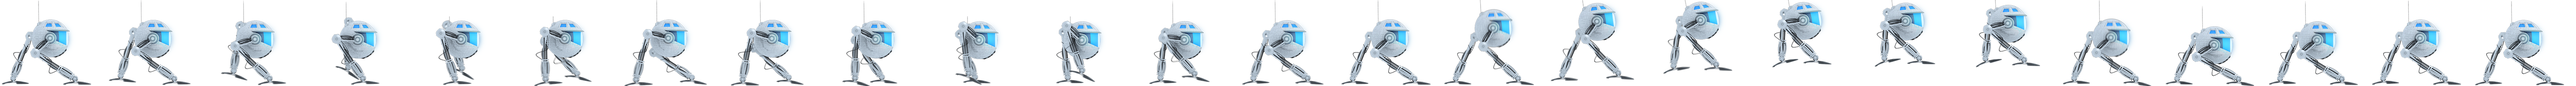
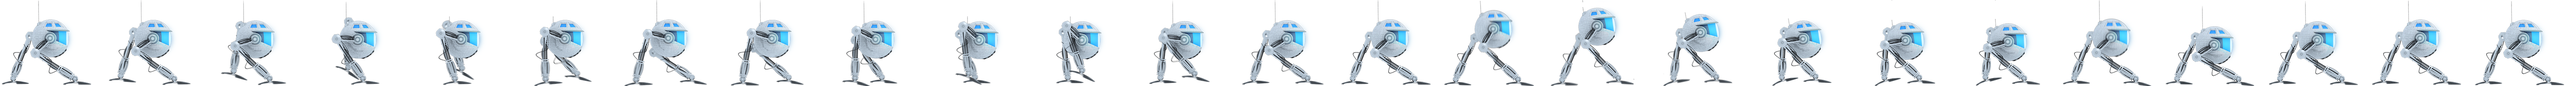
Implementación de animación de salto

Changed region(s): [[0.5624, 0.0308, 0.8124, 1.0]]

diff --git a/core/src/mx/itesm/jrcti/botscape/Robot.java b/core/src/mx/itesm/jrcti/botscape/Robot.java
@@ -16,8 +16,6 @@ import com.badlogic.gdx.physics.box2d.PolygonShape;
 import com.badlogic.gdx.physics.box2d.World;
 import com.badlogic.gdx.physics.box2d.WorldManifold;
 
-import java.util.ArrayList;
-
 
 /**
  * Created by rayoc on 08/03/2017.
@@ -27,8 +25,11 @@ public class Robot extends Objeto {
     private final float VELOCIDAD_X = 4;      // Velocidad horizontal
 
     private Animation<TextureRegion> spriteAnimadoMov;         // Animación caminando
-    private Animation<TextureRegion> spriteAnimadoSalto;         // Animación saltando
-    private float timerAnimacion;                           // Tiempo para cambiar frames de la animación
+    private Animation<TextureRegion> spriteAnimadoSaltoSubiendo;         // Animación saltando subiendo
+    private Animation<TextureRegion> spriteAnimadoSaltoBajando;         // Animación saltando bajando
+    private float timerAnimacionMov;                           // Tiempo para cambiar frames de la animación
+    private float timerAnimacionSub;
+    private float timerAnimacionBaj;
 
     private EstadoMovimiento estadoMovimiento = EstadoMovimiento.QUIETO;
     private EstadoMovimiento ultimoEstadoMov = EstadoMovimiento.QUIETO;
@@ -46,6 +47,8 @@ public class Robot extends Objeto {
     private int tiempoInv = 90;
     private final int TIEMPO_RUN_INICIAL =600;
     private int tiempoRun=600;
+
+    private boolean debeAterrizar;
 
 
 
@@ -67,18 +70,23 @@ public class Robot extends Objeto {
                 texturaPersonaje[0][8], texturaPersonaje[0][9], texturaPersonaje[0][10],
                 texturaPersonaje[0][11], texturaPersonaje[0][12]);
         //Crea la animación de salto
-        spriteAnimadoSalto = new Animation(0.25f, texturaPersonaje[0][13],
+        spriteAnimadoSaltoSubiendo = new Animation(0.10f, texturaPersonaje[0][13],
                 texturaPersonaje[0][14], texturaPersonaje[0][15], texturaPersonaje[0][16],
-                texturaPersonaje[0][17], texturaPersonaje[0][18], texturaPersonaje[0][19],
-                texturaPersonaje[0][20], texturaPersonaje[0][21], texturaPersonaje[0][22],
-                texturaPersonaje[0][23], texturaPersonaje[0][24]);
+                texturaPersonaje[0][17], texturaPersonaje[0][18], texturaPersonaje[0][19]);
+        spriteAnimadoSaltoBajando = new Animation(0.12f, texturaPersonaje[0][21], texturaPersonaje[0][22], texturaPersonaje[0][23],
+                texturaPersonaje[0][24]);
         // Animación infinita
         spriteAnimadoMov.setPlayMode(Animation.PlayMode.LOOP);
+        spriteAnimadoSaltoSubiendo.setPlayMode(Animation.PlayMode.NORMAL);
+        spriteAnimadoSaltoBajando.setPlayMode(Animation.PlayMode.LOOP);
         // Inicia el timer que contará tiempo para saber qué frame se dibuja
-        timerAnimacion = 0;
+        timerAnimacionMov = 0f;
+        timerAnimacionSub = 0f;
+        timerAnimacionBaj = 0f;
         // Crea el sprite con el personaje quieto (idle)
         sprite = new Sprite(texturaPersonaje[0][0]);    // QUIETO
         sprite.setPosition(x, y);// Posición inicial
+
 
         bodydef = new BodyDef();
         bodydef.type = type;
@@ -99,39 +107,155 @@ public class Robot extends Objeto {
 
     // Dibuja el personaje
     public void dibujar(SpriteBatch batch) {
+        TextureRegion region;
+        boolean aterrizaje;
+
         // Dibuja el personaje dependiendo del estadoMovimiento
         sprite.setPosition((body.getPosition().x * PantallaNivel.getPtM()) - sprite.getWidth() / 2,
-                (body.getPosition().y * PantallaNivel.getPtM()) - 4*sprite.getHeight()/ 10);
-        switch (estadoMovimiento) {
-            case MOV_DERECHA:
-            case MOV_IZQUIERDA:
-                timerAnimacion += Gdx.graphics.getDeltaTime();
-                // Frame que se dibujará
-                TextureRegion region = spriteAnimadoMov.getKeyFrame(timerAnimacion);
-                if (estadoMovimiento == EstadoMovimiento.MOV_IZQUIERDA) {
-                    if (!region.isFlipX()) {
-                        region.flip(true, false);
-                    }
-                } else {
-                    if (region.isFlipX()) {
-                        region.flip(true, false);
-                    }
-                }
-                batch.draw(region, sprite.getX(), sprite.getY());
-                break;
-            case QUIETO:
-                if(ultimoEstadoMov==EstadoMovimiento.MOV_DERECHA){
-                    if(sprite.isFlipX())
-                        sprite.flip(true,false);
-                } else if(ultimoEstadoMov==EstadoMovimiento.MOV_IZQUIERDA){
-                    if(!sprite.isFlipX()){
-                        sprite.flip(true,false);
-                    }
-                }
+                (body.getPosition().y * PantallaNivel.getPtM()) - 4 * sprite.getHeight() / 10);
+        if ((body.getLinearVelocity().y <= 0.001f && body.getLinearVelocity().y >= -0.001f) || (estadoSalto == EstadoSalto.EN_PISO)){
+                switch (estadoMovimiento) {
+                    case MOV_DERECHA:
+                    case MOV_IZQUIERDA:
+                        timerAnimacionMov += Gdx.graphics.getDeltaTime();
+                        // Frame que se dibujará
+                        region = spriteAnimadoMov.getKeyFrame(timerAnimacionMov);
+                        if (estadoMovimiento == EstadoMovimiento.MOV_IZQUIERDA) {
+                            if (!region.isFlipX()) {
+                                region.flip(true, false);
+                            }
+                        } else {
+                            if (region.isFlipX()) {
+                                region.flip(true, false);
+                            }
+                        }
+                        batch.draw(region, sprite.getX(), sprite.getY());
+                        break;
+                    case QUIETO:
+                        if (ultimoEstadoMov == EstadoMovimiento.MOV_DERECHA) {
+                            if (sprite.isFlipX())
+                                sprite.flip(true, false);
+                        } else if (ultimoEstadoMov == EstadoMovimiento.MOV_IZQUIERDA) {
+                            if (!sprite.isFlipX()) {
+                                sprite.flip(true, false);
+                            }
+                        }
 
-                sprite.draw(batch); // Dibuja el sprite estático
-                break;
-        }
+                        sprite.draw(batch); // Dibuja el sprite estático
+                        break;
+                }
+                timerAnimacionSub = 0;
+                timerAnimacionBaj = 0;
+
+        } else {
+            //if(body.getLinearVelocity().y>0) {
+                if (!spriteAnimadoSaltoSubiendo.isAnimationFinished(timerAnimacionSub)) {
+                    timerAnimacionSub += Gdx.graphics.getDeltaTime();
+                } else {
+                    timerAnimacionSub -= 1 / 60f;
+                }
+                switch (estadoMovimiento) {
+                    case MOV_DERECHA:
+                    case MOV_IZQUIERDA:
+                        // Frame que se dibujará
+                        region = spriteAnimadoSaltoSubiendo.getKeyFrame(timerAnimacionSub);
+                        if (estadoMovimiento == EstadoMovimiento.MOV_IZQUIERDA) {
+                            if (!region.isFlipX()) {
+                                region.flip(true, false);
+                            }
+                        } else {
+                            if (region.isFlipX()) {
+                                region.flip(true, false);
+                            }
+                        }
+                        batch.draw(region, sprite.getX(), sprite.getY());
+                        break;
+                    case QUIETO:
+                        region = spriteAnimadoSaltoSubiendo.getKeyFrame(timerAnimacionSub);
+                        if (ultimoEstadoMov == EstadoMovimiento.MOV_DERECHA) {
+                            if (region.isFlipX())
+                                region.flip(true, false);
+                        } else if (ultimoEstadoMov == EstadoMovimiento.MOV_IZQUIERDA) {
+                            if (!region.isFlipX()) {
+                                region.flip(true, false);
+                            }
+                        }
+
+                        batch.draw(region, sprite.getX(), sprite.getY());
+                        break;
+                }
+            } /*else{
+                if (!spriteAnimadoSaltoBajando.isAnimationFinished(timerAnimacionBaj)) {
+                    timerAnimacionBaj += Gdx.graphics.getDeltaTime();
+                }
+                    switch (estadoMovimiento) {
+                        case MOV_DERECHA:
+                        case MOV_IZQUIERDA:
+                            // Frame que se dibujará
+                            region = spriteAnimadoSaltoBajando.getKeyFrame(timerAnimacionBaj);
+                            if (estadoMovimiento == EstadoMovimiento.MOV_IZQUIERDA) {
+                                if (!region.isFlipX()) {
+                                    region.flip(true, false);
+                                }
+                            } else {
+                                if (region.isFlipX()) {
+                                    region.flip(true, false);
+                                }
+                            }
+                            batch.draw(region, sprite.getX(), sprite.getY());
+                            break;
+                        case QUIETO:
+                            region = spriteAnimadoSaltoBajando.getKeyFrame(timerAnimacionBaj);
+                            if (ultimoEstadoMov == EstadoMovimiento.MOV_DERECHA) {
+                                if (region.isFlipX())
+                                    region.flip(true, false);
+                            } else if (ultimoEstadoMov == EstadoMovimiento.MOV_IZQUIERDA) {
+                                if (!region.isFlipX()) {
+                                    region.flip(true, false);
+                                }
+                            }
+
+                            batch.draw(region, sprite.getX(), sprite.getY());
+                            break;
+                    }
+
+                }*/
+
+        //}
+
+        /*if (!spriteAnimadoSaltoBajando.isAnimationFinished(timerAnimacionBaj)) {
+            timerAnimacionBaj += Gdx.graphics.getDeltaTime();
+            switch (estadoMovimiento) {
+                case MOV_DERECHA:
+                case MOV_IZQUIERDA:
+                    // Frame que se dibujará
+                    region = spriteAnimadoSaltoBajando.getKeyFrame(timerAnimacionBaj);
+                    if (estadoMovimiento == EstadoMovimiento.MOV_IZQUIERDA) {
+                        if (!region.isFlipX()) {
+                            region.flip(true, false);
+                        }
+                    } else {
+                        if (region.isFlipX()) {
+                            region.flip(true, false);
+                        }
+                    }
+                    batch.draw(region, sprite.getX(), sprite.getY());
+                    break;
+                case QUIETO:
+                    region = spriteAnimadoSaltoBajando.getKeyFrame(timerAnimacionBaj);
+                    if (ultimoEstadoMov == EstadoMovimiento.MOV_DERECHA) {
+                        if (region.isFlipX())
+                            region.flip(true, false);
+                    } else if (ultimoEstadoMov == EstadoMovimiento.MOV_IZQUIERDA) {
+                        if (!region.isFlipX()) {
+                            region.flip(true, false);
+                        }
+                    }
+
+                    batch.draw(region, sprite.getX(), sprite.getY());
+                    break;
+            }
+        }*/
     }
 
     // Actualiza el sprite, de acuerdo al estadoMovimiento y estadoSalto
@@ -249,6 +373,8 @@ public class Robot extends Objeto {
         }
     }
 
+
+
     private boolean checarMovDer(TiledMap mapa){
         TiledMapTileLayer capa = (TiledMapTileLayer) mapa.getLayers().get(1);
         if(capa.isVisible()) {
@@ -325,7 +451,6 @@ public class Robot extends Objeto {
 
         }
         setEstadoMovimiento(EstadoMovimiento.QUIETO);
-        //estadoMovimiento = EstadoMovimiento.QUIETO;
     }
 
     //Mejorar con or de celda izquierda, centro o derecha
@@ -378,6 +503,11 @@ public class Robot extends Objeto {
         this.estadoMovimiento = estadoMovimiento;
     }
     public void setEstadoSalto(EstadoSalto estadoSalto) {
+        if(estadoSalto == EstadoSalto.BAJANDO)
+            debeAterrizar = true;
+        else {
+            debeAterrizar = false;
+        }
         this.estadoSalto = estadoSalto;
     }
 
@@ -435,6 +565,10 @@ public class Robot extends Objeto {
         body.createFixture(fix);
         //this.sprite=new Sprite(texturaPersonaje[0][0]);
 
+    }
+
+    public void debeAterrizar(boolean debeAterrizar) {
+        this.debeAterrizar = debeAterrizar;
     }
 
     public enum EstadoMovimiento {

diff --git a/core/src/mx/itesm/jrcti/botscape/NivelTutorial.java b/core/src/mx/itesm/jrcti/botscape/NivelTutorial.java
@@ -27,8 +27,8 @@ import java.util.ArrayList;
 public class NivelTutorial extends PantallaNivel {
 
     //Debuggers, handle with care
-    /*Box2DDebugRenderer debugRenderer;
-    Matrix4 debugMatrix;*/
+    Box2DDebugRenderer debugRenderer;
+    Matrix4 debugMatrix;
 
 
     private static final int ANCHO_MAPA=3840;
@@ -111,7 +111,7 @@ public class NivelTutorial extends PantallaNivel {
         createCollisionListener();
 
         //Debugger
-        //debugRenderer = new Box2DDebugRenderer();
+        debugRenderer = new Box2DDebugRenderer();
 
         /*iman = new Iman(texturaIman, 3, 3, 300, 200,
                 Plataforma.EstadoMovimiento.MOV_DERECHA, getWorld());*/
@@ -158,13 +158,13 @@ public class NivelTutorial extends PantallaNivel {
             getMapRenderer().render();
 
 
-            /*debugMatrix=getBatch().getProjectionMatrix().cpy().scale(PantallaNivel.getPtM(),PantallaNivel.getPtM(),0);
-            debugRenderer.render(getWorld(),debugMatrix);*/
+            debugMatrix=getBatch().getProjectionMatrix().cpy().scale(PantallaNivel.getPtM(),PantallaNivel.getPtM(),0);
+            debugRenderer.render(getWorld(),debugMatrix);
 
 
             //Debugging
-            /*debugMatrix = getBatch().getProjectionMatrix().cpy().scale(PantallaNivel.getPtM(),
-                    PantallaNivel.getPtM(), 0);*/
+            debugMatrix = getBatch().getProjectionMatrix().cpy().scale(PantallaNivel.getPtM(),
+                    PantallaNivel.getPtM(), 0);
 
             //algo
             getBatch().begin();

diff --git a/core/src/mx/itesm/jrcti/botscape/PantallaNivel.java b/core/src/mx/itesm/jrcti/botscape/PantallaNivel.java
@@ -10,7 +10,6 @@ import com.badlogic.gdx.graphics.OrthographicCamera;
 import com.badlogic.gdx.graphics.Texture;
 import com.badlogic.gdx.graphics.g2d.SpriteBatch;
 import com.badlogic.gdx.graphics.g2d.TextureRegion;
-import com.badlogic.gdx.maps.MapLayer;
 import com.badlogic.gdx.maps.MapProperties;
 import com.badlogic.gdx.maps.tiled.TiledMap;
 import com.badlogic.gdx.maps.tiled.TiledMapTileLayer;
@@ -21,7 +20,6 @@ import com.badlogic.gdx.physics.box2d.BodyDef;
 import com.badlogic.gdx.physics.box2d.Contact;
 import com.badlogic.gdx.physics.box2d.ContactImpulse;
 import com.badlogic.gdx.physics.box2d.ContactListener;
-import com.badlogic.gdx.physics.box2d.Fixture;
 import com.badlogic.gdx.physics.box2d.FixtureDef;
 import com.badlogic.gdx.physics.box2d.Manifold;
 import com.badlogic.gdx.physics.box2d.PolygonShape;
@@ -599,6 +597,7 @@ public abstract class PantallaNivel extends Pantalla {
             if(punto.y*PIXELS_TO_METERS <= getRobot().sprite.getY()){
                 //Gdx.app.log("punto y " + punto.y*PIXELS_TO_METERS," robot y " + getRobot().sprite.getY());
                 getRobot().setEstadoSalto(Robot.EstadoSalto.EN_PISO);
+                getRobot().debeAterrizar(true);
             }
         }
 
